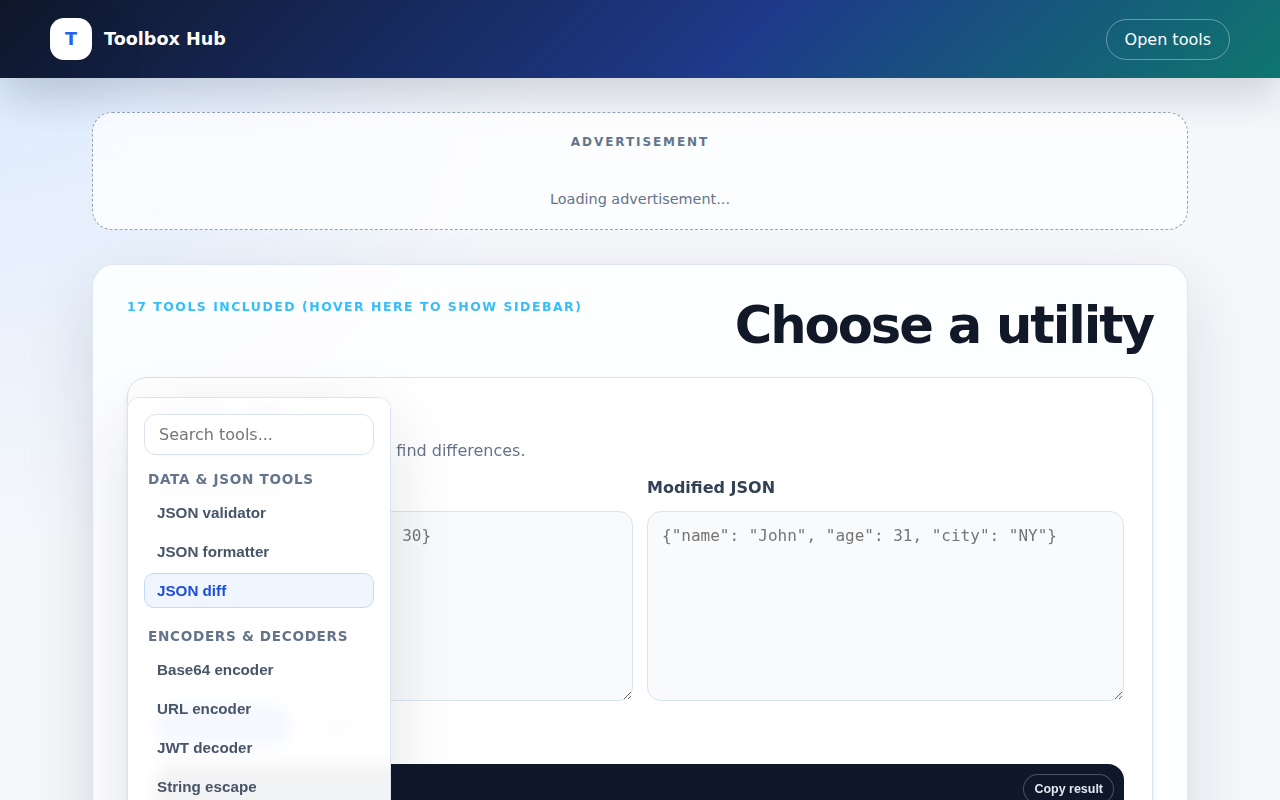
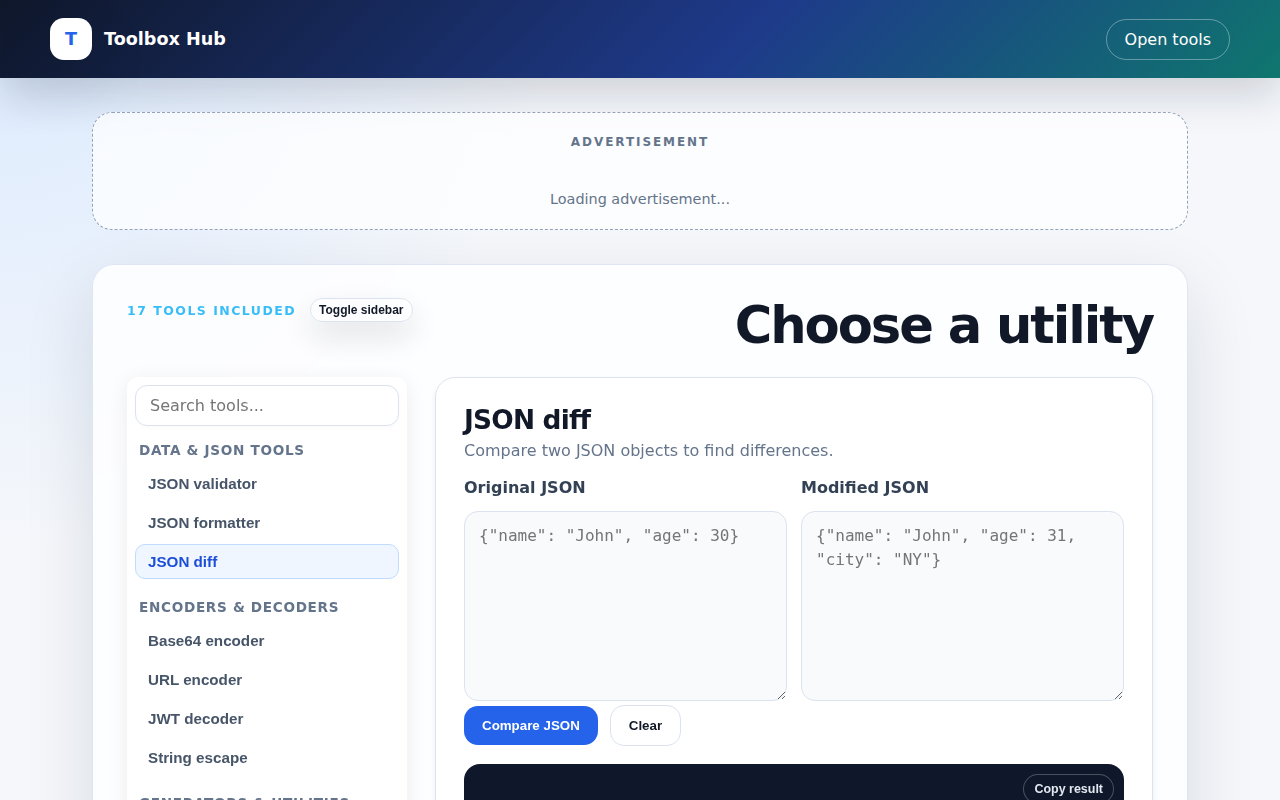
feat: Replace sidebar hover interaction with toggle button
Replaced the hover-to-show mechanism for the tools sidebar with an explicit "Toggle sidebar" button.

- Modified `index.html` to remove the `<div class="hover-zone"></div>` and the hover text, replacing it with a `<button id="toggleSidebarBtn">`.
- Updated `styles.css` to clean up the `.hover-zone` and related pseudo-class rules.
- Added event listener in `script.js` to toggle the `.collapsed` class on the `.tool-nav-container` upon clicking the new button.
- Updated Playwright UI tests in `verify_collapse.py` to test via `#toggleSidebarBtn` clicks instead of mouse hover events.

diff --git a/styles.css b/styles.css
@@ -54,8 +54,6 @@ main { padding: 34px clamp(18px, 4vw, 42px) 64px; }
 .tool-layout { display: flex; flex-direction: row; gap: 28px; align-items: start; position: relative; }
 .tool-nav-container { flex: 0 0 280px; display: flex; flex-direction: column; gap: 16px; position: sticky; top: 20px; max-height: calc(100vh - 40px); overflow-y: auto; padding-right: 8px; transition: all 0.3s cubic-bezier(0.4, 0, 0.2, 1); opacity: 1; transform: translateX(0); z-index: 10; background: rgba(255,255,255,.95); backdrop-filter: blur(8px); -webkit-backdrop-filter: blur(8px); border-radius: 12px; box-shadow: 0 4px 20px rgba(0,0,0,0.08); padding-left: 8px; padding-top: 8px; padding-bottom: 8px;}
 .tool-nav-container.collapsed { position: absolute; transform: translateX(-120%); opacity: 0; pointer-events: none; }
-.hover-zone { position: absolute; left: 0; top: 0; bottom: 0; width: 40px; z-index: 20; }
-.hover-zone:hover + .tool-nav-container.collapsed, .tool-nav-container.collapsed:hover { transform: translateX(0); opacity: 1; pointer-events: auto; box-shadow: var(--shadow); border: 1px solid var(--border); padding: 16px; }
 .search-container input { width: 100%; border: 1px solid var(--border); border-radius: 12px; padding: 10px 14px; font: inherit; background: var(--panel); color: var(--text); box-shadow: 0 2px 4px rgba(0,0,0,0.02); }
 .search-container input:focus { outline: 2px solid var(--primary); outline-offset: -1px; border-color: transparent; }
 .tool-nav { display: flex; flex-direction: column; gap: 20px; }

diff --git a/index.html b/index.html
@@ -44,12 +44,11 @@
 
       <section id="tools" class="tools-section" aria-labelledby="tools-title">
         <div class="section-heading">
-          <p class="eyebrow">17 tools included (Hover here to show sidebar)</p>
+          <p class="eyebrow">17 tools included <button id="toggleSidebarBtn" class="button ghost" style="padding: 4px 8px; margin-left: 8px; font-size: 0.75rem;">Toggle sidebar</button></p>
           <h2 id="tools-title">Choose a utility</h2>
         </div>
 
         <div class="tool-layout">
-          <div class="hover-zone"></div>
           <aside class="tool-nav-container" aria-label="Tool list">
             <div class="search-container">
               <input type="text" id="toolSearch" placeholder="Search tools..." aria-label="Search tools">

diff --git a/script.js b/script.js
@@ -134,6 +134,13 @@ function activateTool(tool, shouldScroll = true) {
 }
 
 function initToolTabs() {
+  const toggleBtn = $('#toggleSidebarBtn');
+  if (toggleBtn) {
+    toggleBtn.addEventListener('click', () => {
+      $('.tool-nav-container')?.classList.toggle('collapsed');
+    });
+  }
+
   $$('.tool-tab').forEach((tab) => {
     tab.addEventListener('click', () => activateTool(tab.dataset.tool));
   });

diff --git a/verify_collapse.py b/verify_collapse.py
@@ -15,13 +15,13 @@ async def main():
         await page.wait_for_timeout(500)
         await page.screenshot(path="collapsed.png")
 
-        # Hover over hover-zone
-        await page.hover(".hover-zone", position={"x": 10, "y": 100})
+        # Click the toggle sidebar button to show sidebar
+        await page.click("#toggleSidebarBtn")
         await page.wait_for_timeout(500)
-        await page.screenshot(path="hovered_zone.png")
+        await page.screenshot(path="hovered_zone.png") # keeping the original filename for the test output
 
-        # Hover away
-        await page.hover("h2#tools-title")
+        # Click the toggle sidebar button again to hide sidebar
+        await page.click("#toggleSidebarBtn")
         await page.wait_for_timeout(500)
         await page.screenshot(path="unhovered_zone.png")
 
